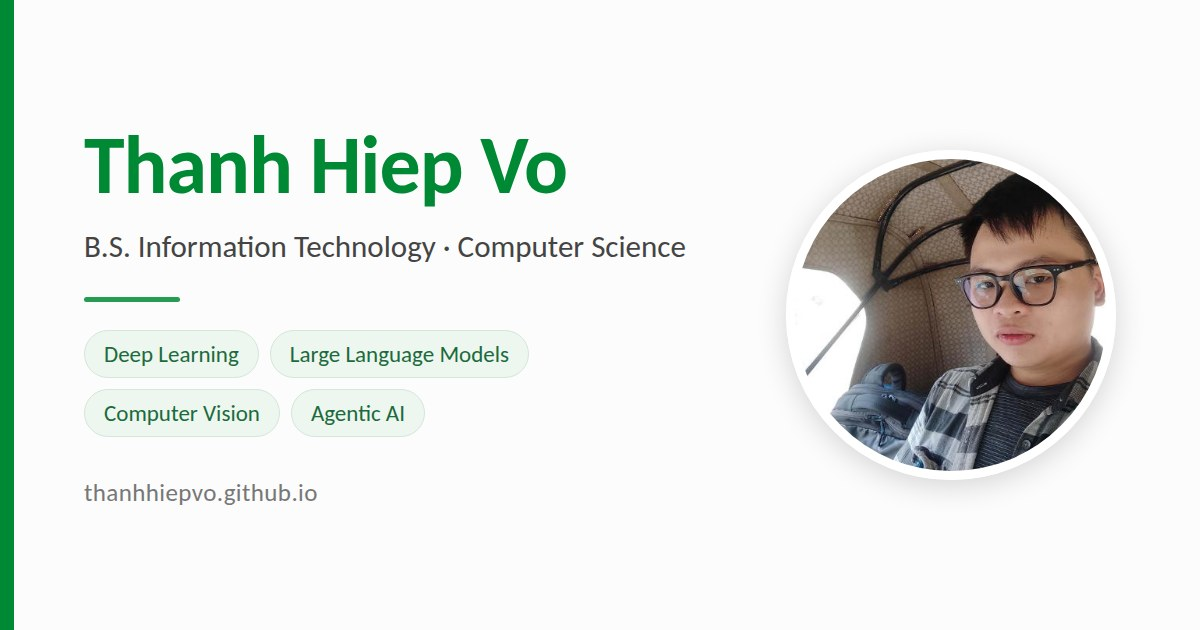
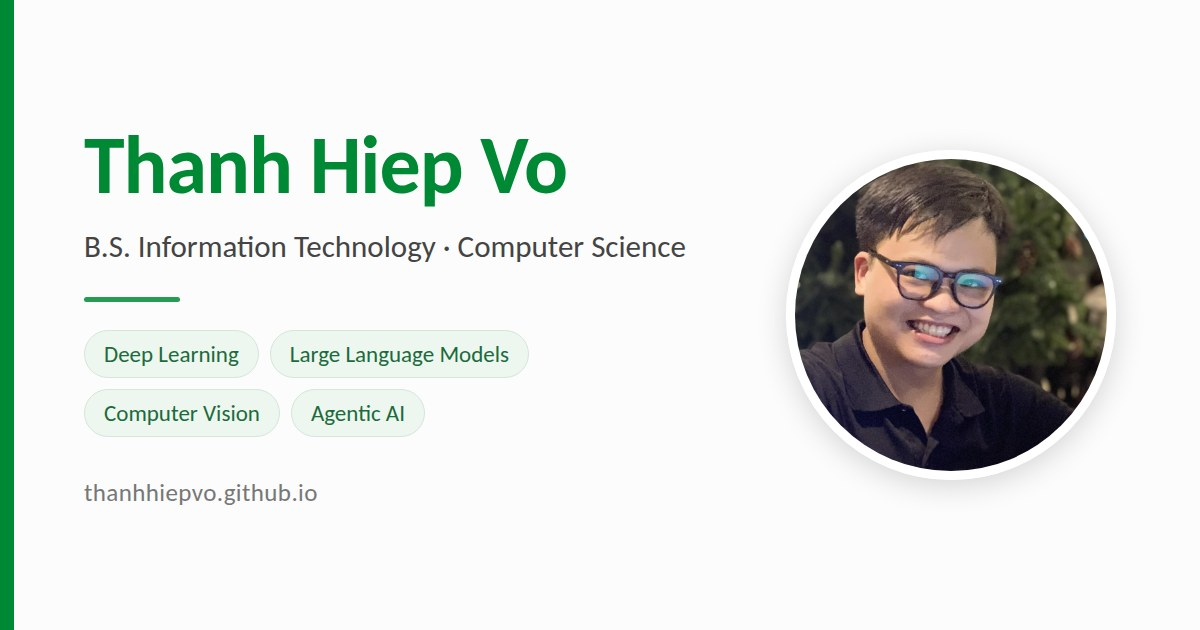
Sync with the updated CV and new profile photo
- VinSmart Future now holds two roles: AI Application Engineer from
  Sep 2026, and the Machine Learning & Data Mining Engineer role it
  grew out of (Jul-Aug 2026); mentor Dinh Tuan Cuong linked
- VinUniversity residency closed out at Aug 2026
- Bio and News follow the new title; Databricks added to Skills
- New profile photo, cropped square around the face for the header,
  with the link-preview card rebuilt from it
- Bump asset version so browsers and link crawlers drop the cached
  stylesheet and preview image

Claude-Session: https://claude.ai/code/session_01L8xE4PXQsNFQYNUScGiEzF

Changed region(s): [[0.6475, 0.2413, 0.925, 0.754]]

diff --git a/index.html b/index.html
@@ -19,10 +19,10 @@ title: Home
   </p>
 
   <p>
-    I am currently a <b>Machine Learning &amp; Data Mining Engineer</b> at VinSmart Future and an
-    <b>Agentic AI Resident</b> at VinUniversity, both in Hanoi. Previously I interned as an
-    AI Engineer at FPT Software and spent 2025 at <b>Queen's University Belfast</b>, first as a
-    Research Assistant and then as a Visiting Research Student.
+    I am currently an <b>AI Application Engineer</b> at VinSmart Future in Hanoi, where I joined as a
+    Machine Learning &amp; Data Mining Engineer. Before that I was an <b>Agentic AI Resident</b> at
+    VinUniversity, interned as an AI Engineer at FPT Software, and spent 2025 at
+    <b>Queen's University Belfast</b>, first as a Research Assistant and then as a Visiting Research Student.
     I am always open to collaborations and discussions. Feel free to reach out via email!
   </p>
 </div>
@@ -32,6 +32,7 @@ title: Home
   <h4>News</h4>
   <ul style="list-style-type: none; padding: 2px; overflow-y: scroll; height: 250px;">
     <li><b>[2026]</b> Paper <a href="#pub-CoDiR2026">CoDiR: Confidence-Guided Diffusion Refinement for Semi-Supervised Histopathology Segmentation</a> at <b>MICCAI Workshop COMPAYL 2026</b>.</li>
+    <li><b>[09/2026]</b> Moved into the <b>AI Application Engineer</b> role at VinSmart Future, Hanoi.</li>
     <li><b>[07/2026]</b> Started as <b>Machine Learning &amp; Data Mining Engineer</b> at VinSmart Future, Hanoi.</li>
     <li><b>[05/2026]</b> Started as <b>Agentic AI Resident</b> at VinUniversity, Hanoi.</li>
     <li><b>[04/2026]</b> Completed undergraduate thesis <i>Building Ontology-based Constraints for Large Language Models</i> with grade <b>9.5/10</b>.</li>
@@ -134,8 +135,8 @@ title: Home
   <p style="margin-bottom: 5px; margin-top: 15px;"><b>Data &amp; Vector Databases</b></p>
   <p>Qdrant, Neo4j, ChromaDB, FAISS</p>
 
-  <p style="margin-bottom: 5px; margin-top: 15px;"><b>Infrastructure &amp; Cloud</b></p>
-  <p>Docker, FastAPI, AWS</p>
+  <p style="margin-bottom: 5px; margin-top: 15px;"><b>Infrastructure, Cloud &amp; Platforms</b></p>
+  <p>Docker, FastAPI, AWS, Databricks</p>
 
   <p style="margin-bottom: 5px; margin-top: 15px;"><b>Tools</b></p>
   <p>LaTeX, SQL, Git</p>

diff --git a/_includes/head.html b/_includes/head.html
@@ -6,7 +6,7 @@
 
   {% comment %} Absolute URLs — link-preview crawlers do not resolve relative paths. {% endcomment %}
   {% assign og_url = site.url | append: site.baseurl | append: page.url %}
-  {% assign og_img = site.url | append: site.baseurl | append: site.data.main_info.og_image %}
+  {% assign og_img = site.url | append: site.baseurl | append: site.data.main_info.og_image | append: "?v=" | append: site.version %}
   {% if page.title and page.title != "Home" %}
     {% assign og_title = page.title | append: " · " | append: site.data.main_info.name %}
   {% else %}
